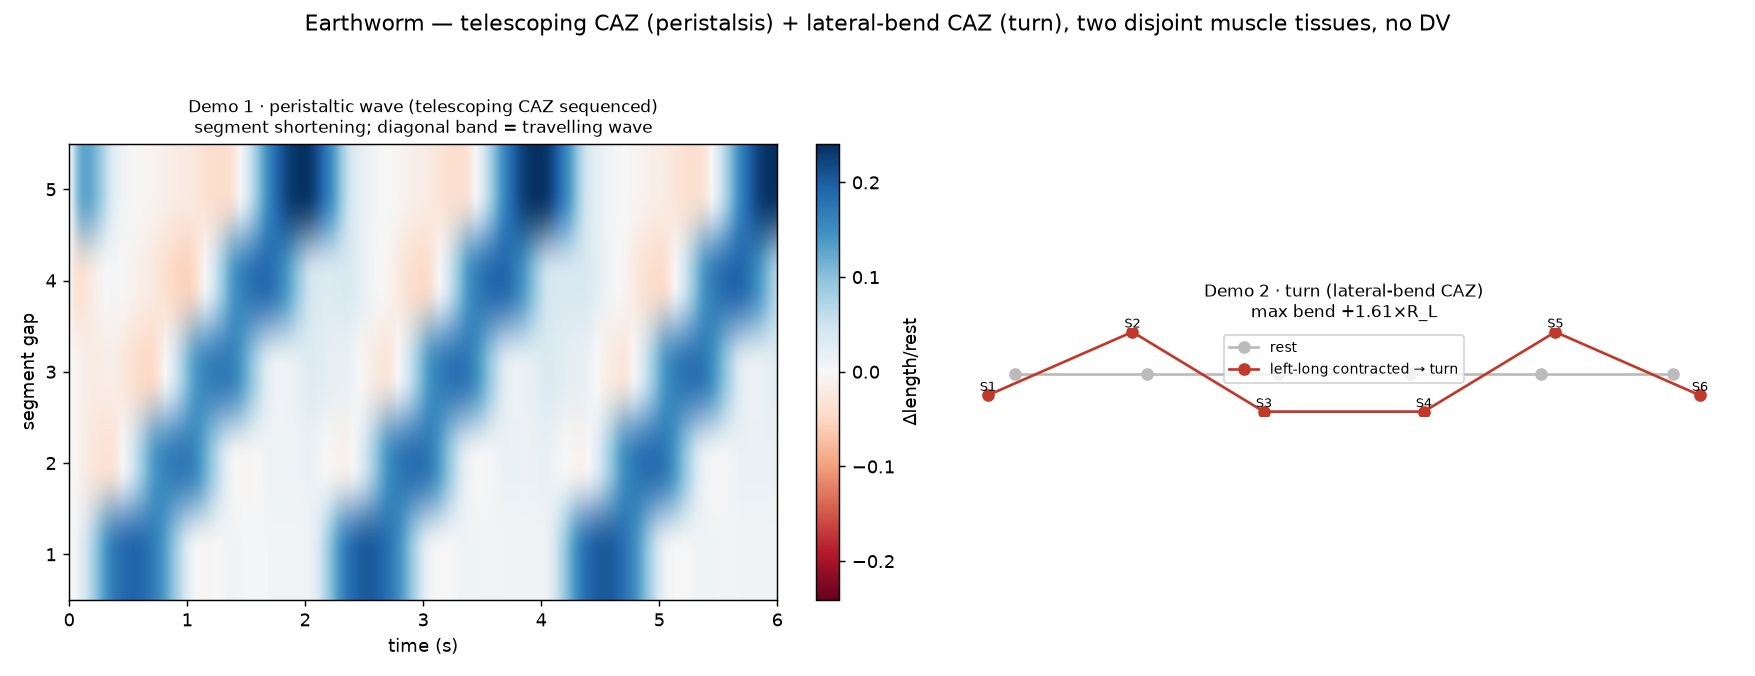
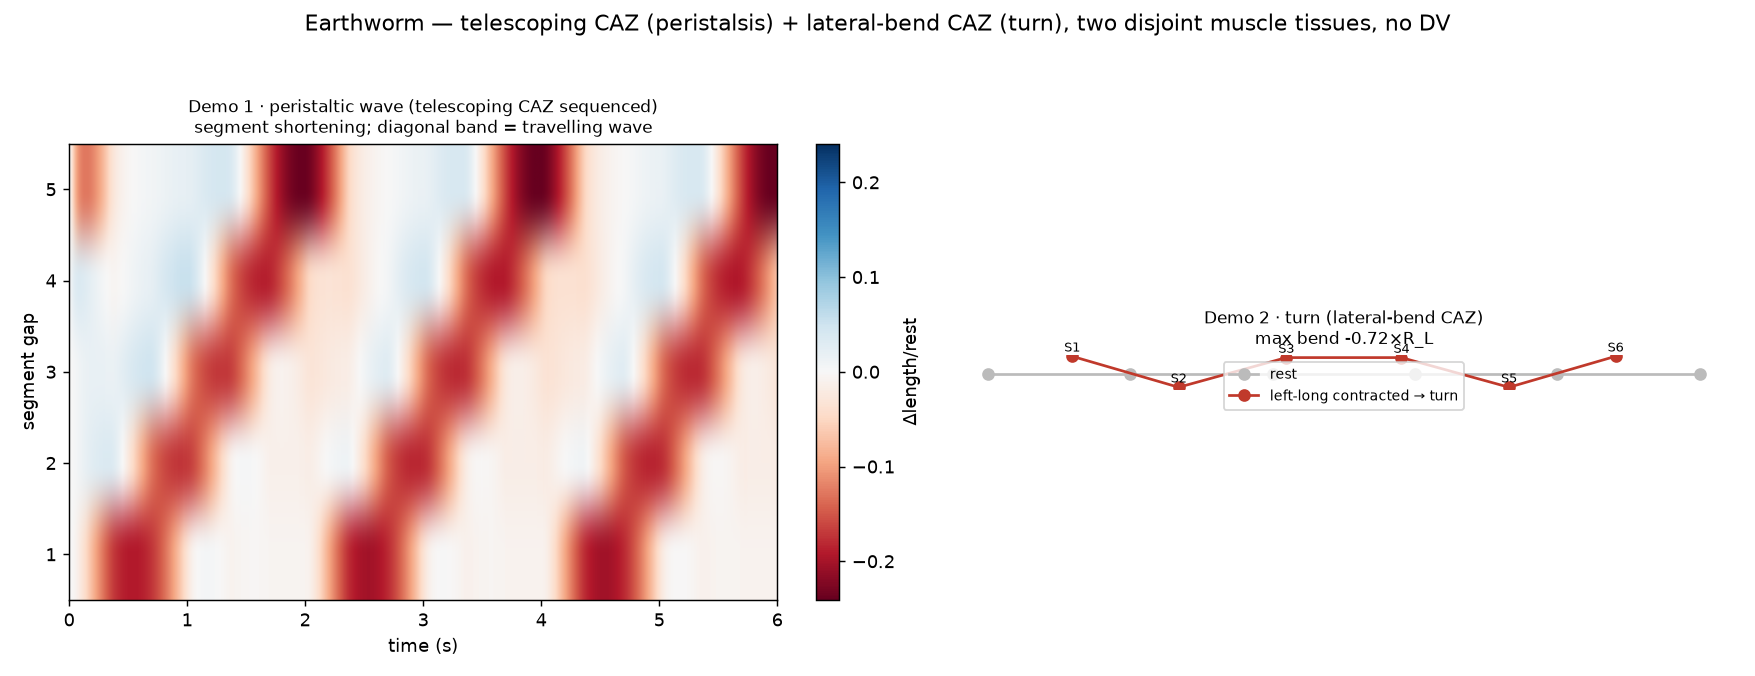
feat(fbody): A2 — one shared pull-only f primitive; port earthworm + nematode
A muscle can only pull. New smn_lab/fbody.build_body is the single body
builder every morphology instantiates: point-mass s + spring-tendon f per
edge, pull-only (negative gear + ctrlrange 0..cmax, so non-negative ctrl =
contraction amount; the series spring restores). Verified in fbody._selfcheck
(+ctrl contracts 0.300->0.175; relaxed rests at 0.300).

- earthworm.py, nematode.py now build via build_body (pull-only), retiring
  their inline bidirectional builders (which could PUSH). Earthworm results
  preserved (peristalsis 24%; turn now correctly contraction-driven);
  nematode DV bend now weaker (0.1xR) under honest pull-only — its gait needs
  Phase B (emergent coupling + anchoring), not script-tuning.
- experiments/pull_only_recovery_delta.py: evidence that pull-only babble
  recovers the self-model identically (chain/sheet Δ<=0.01) — so migrating
  the lattice/disk/hydra RECOVERY family is safe (A2b).

Changed region(s): [[0.0308, 0.2175, 0.4615, 0.9009], [0.5538, 0.4038, 0.9846, 0.6213]]

diff --git a/smn_lab/fbody.py b/smn_lab/fbody.py
@@ -1,0 +1,91 @@
+# SPDX-License-Identifier: GPL-3.0-or-later
+# Copyright (C) 2026 G. Nagarjuna and Durgaprasad Karnam
+"""The shared body builder — point-mass segments (``s``) joined by pull-only ``f``.
+
+One primitive for every morphology (A2 of the bench revision). A body is a set of **nodes**
+(``s`` — point masses, 3-DOF slide, overdamped) joined by **edges**, each edge one **``f``** — a
+*contractile unit* (Sensation Modulator): a spring-tendon with, if actuated, a linear actuator.
+
+**A muscle can only pull.** So an actuated ``f`` is **pull-only**: its series spring supplies the
+restoring force (the elastic recoil / the opposition), and the actuator only ever *contracts*.
+MuJoCo sign convention (verified in ``_selfcheck``): with ``gear=+1`` a positive ``ctrl``
+*lengthens* a tendon. We therefore realize pull-only with **negative gear + ``ctrlrange="0 cmax"``**,
+so a **non-negative ``ctrl`` is the contraction amount** (0 = relaxed, ``cmax`` = full pull). Same
+convention ``crawler.py`` uses for its opponent pair.
+
+A CAZ is *not* built here — a CAZ is a zone of coordinated action *over* ``f``s (the coordination
+layer). This module only builds the ``f`` scaffold and returns the handles to drive and read it.
+
+Run ``python -m smn_lab.fbody`` to self-check the pull-only sign convention.
+"""
+from __future__ import annotations
+import numpy as np
+import mujoco
+
+DT = 0.002
+
+
+def build_body(pos, edges, stiff, actuated=None, *, cmax=4.0, gear=1.0, pull_only=True,
+               seg_size=0.015, seg_mass=0.05, seg_damp=3.0, link_damp=0.5, name="body"):
+    """Build a MuJoCo body of point-mass ``s`` joined by spring-tendon ``f`` edges.
+
+    pos       : (N,3) node positions.
+    edges     : list of (a,b) index pairs — one ``f`` per edge.
+    stiff     : per-edge spring stiffness (scalar broadcast, or length-len(edges) array).
+    actuated  : per-edge bool (which ``f`` carry a linear actuator); default all True.
+    cmax,gear : ctrl bound and actuator gear magnitude.
+    pull_only : True  -> muscle can only CONTRACT (negative gear, ctrlrange 0..cmax; a
+                         non-negative ctrl is the contraction amount);
+                False -> bidirectional (legacy; ctrlrange -cmax..cmax, gear +).
+
+    Returns (model, data, act_of_edge) where act_of_edge maps edge index -> actuator index.
+    """
+    pos = np.asarray(pos, float)
+    n_e = len(edges)
+    stiff = np.broadcast_to(np.asarray(stiff, float), (n_e,))
+    actuated = np.ones(n_e, bool) if actuated is None else np.asarray(actuated, bool)
+    g = -abs(gear) if pull_only else abs(gear)          # negative gear: +ctrl -> contract
+    lo = 0.0 if pull_only else -cmax
+    bodies = "".join(
+        f'<body name="b{i}" pos="{x:.5f} {y:.5f} {z:.5f}">'
+        f'<joint name="jx{i}" type="slide" axis="1 0 0" damping="{seg_damp}"/>'
+        f'<joint name="jy{i}" type="slide" axis="0 1 0" damping="{seg_damp}"/>'
+        f'<joint name="jz{i}" type="slide" axis="0 0 1" damping="{seg_damp}"/>'
+        f'<geom type="sphere" size="{seg_size}" mass="{seg_mass}" friction="0 0 0"/>'
+        f'<site name="s{i}" size="0.006"/></body>' for i, (x, y, z) in enumerate(pos))
+    tend = "".join(
+        f'<spatial name="t{e}" stiffness="{stiff[e]:.4f}" damping="{link_damp}" '
+        f'springlength="{np.linalg.norm(pos[a]-pos[b]):.5f}"><site site="s{a}"/>'
+        f'<site site="s{b}"/></spatial>' for e, (a, b) in enumerate(edges))
+    acts = "".join(f'<motor name="m{e}" tendon="t{e}" gear="{g:.4f}" ctrlrange="{lo} {cmax}"/>'
+                   for e in range(n_e) if actuated[e])
+    xml = (f'<mujoco model="{name}"><option timestep="{DT}" gravity="0 0 0" '
+           f'integrator="implicitfast"><flag contact="disable"/></option>'
+           f'<worldbody>{bodies}</worldbody><tendon>{tend}</tendon>'
+           f'<actuator>{acts}</actuator></mujoco>')
+    m = mujoco.MjModel.from_xml_string(xml)
+    d = mujoco.MjData(m)
+    act_of_edge = {int(e): a for a, e in enumerate(np.where(actuated)[0])}
+    return m, d, act_of_edge
+
+
+def _selfcheck():
+    """Assert the pull-only convention: a non-negative ctrl CONTRACTS (shortens) the f."""
+    pos = [(0, 0, 0), (0.30, 0, 0)]
+    m, d, aoe = build_body(pos, [(0, 1)], stiff=12.0, cmax=4.0, pull_only=True)
+    d.qpos[:] = 0; mujoco.mj_forward(m, d)
+    for _ in range(1500):
+        d.ctrl[aoe[0]] = 3.0                       # non-negative = "contract"
+        mujoco.mj_step(m, d)
+    length = (0.30 + d.qpos[1]) - d.qpos[0]
+    assert length < 0.30, f"pull-only broken: +ctrl gave length {length:.4f} (rest 0.300)"
+    print(f"pull-only OK: +ctrl -> length {length:.4f} (contracted from 0.300)")
+    m, d, aoe = build_body(pos, [(0, 1)], stiff=12.0, pull_only=True)
+    d.qpos[:] = 0; mujoco.mj_forward(m, d)
+    for _ in range(500):
+        d.ctrl[aoe[0]] = 0.0; mujoco.mj_step(m, d)
+    print(f"relaxed rest: length {(0.30 + d.qpos[1]) - d.qpos[0]:.4f} (≈0.300)")
+
+
+if __name__ == "__main__":
+    _selfcheck()

diff --git a/experiments/pull_only_recovery_delta.py b/experiments/pull_only_recovery_delta.py
@@ -1,0 +1,74 @@
+# SPDX-License-Identifier: GPL-3.0-or-later
+# Copyright (C) 2026 G. Nagarjuna and Durgaprasad Karnam
+"""Does the pull-only ``f`` change the self-model? (A2 evidence.)
+
+A muscle can only pull, so the A2 primitive (``smn_lab.fbody.build_body``, pull-only) restricts each
+``f`` to contraction. This asks whether that restriction costs anything in the load-bearing result —
+topology-invariant **self-model recovery** — versus the legacy bidirectional actuator.
+
+Babble each ``f`` and recover the body graph with the framework read-out
+(``smn_lab.self_model.coupling`` + ``endpoint_recovery``), for bidirectional vs pull-only.
+
+Result (3 seeds): recovery is unchanged (Δ ≤ 0.01), so the pull-only migration is safe for the
+recovery family. Run:  ../.venv/bin/python pull_only_recovery_delta.py
+"""
+from __future__ import annotations
+import os, sys
+import numpy as np
+import mujoco
+sys.path.insert(0, os.path.dirname(os.path.dirname(os.path.abspath(__file__))))
+from smn_lab.fbody import build_body, DT
+from smn_lab.self_model import coupling
+from smn_lab.metrics import endpoint_recovery
+
+
+def chain(n):
+    return [(i * 0.3, 0, 0) for i in range(n)], [(i, i + 1) for i in range(n - 1)]
+
+
+def sheet(nc, nr, dx=0.3, dy=0.3):
+    pos = [(c * dx, r * dy, 0) for r in range(nr) for c in range(nc)]
+    idx = lambda c, r: r * nc + c
+    E = []
+    for r in range(nr):
+        for c in range(nc):
+            if c + 1 < nc: E.append((idx(c, r), idx(c + 1, r)))
+            if r + 1 < nr: E.append((idx(c, r), idx(c, r + 1)))
+    return pos, E
+
+
+def recover(pos, edges, pull_only, seed=0, T=16.0, tc=0.15, sig=4.0):
+    m, d, aoe = build_body(pos, edges, stiff=12.0, pull_only=pull_only, cmax=4.0)
+    rng = np.random.default_rng(seed)
+    n, nm, nn = int(T / DT), len(edges), len(pos)
+    DRV = np.zeros((n, nm)); V = [np.zeros((n, nn)) for _ in range(3)]
+    u = np.zeros(m.nu); d.qpos[:] = 0; d.qvel[:] = 0; mujoco.mj_forward(m, d)
+    warm = int(2.0 / DT); ou = np.zeros(nm)
+    for i in range(warm + n):
+        ou += (-ou / tc) * DT + sig * np.sqrt(DT) * rng.standard_normal(nm)
+        drive = np.clip(ou, 0, None) if pull_only else ou     # pull-only: contraction amount >= 0
+        for e, a in aoe.items(): u[a] = drive[e]
+        d.ctrl[:] = u; mujoco.mj_step(m, d)
+        if i >= warm:
+            j = i - warm; DRV[j] = drive; vv = d.qvel.reshape(-1, 3)
+            for k in range(3): V[k][j] = vv[:, k]
+    for A in V: A -= A.mean(0)
+    C = sum(np.abs(coupling(DRV, A)) for A in V)
+    return endpoint_recovery(C, edges)
+
+
+def main():
+    print("\nSelf-model recovery — bidirectional vs pull-only f (3 seeds each)")
+    print("=" * 66)
+    print(f"{'body':<12}{'bidirectional':>15}{'pull-only':>12}{'Δ':>8}")
+    for name, (pos, edges) in [("chain-8", chain(8)), ("sheet-2x5", sheet(5, 2)),
+                                ("sheet-3x4", sheet(4, 3))]:
+        bi = np.mean([recover(pos, edges, False, s) for s in range(3)])
+        po = np.mean([recover(pos, edges, True, s) for s in range(3)])
+        print(f"{name:<12}{bi:>15.2f}{po:>12.2f}{po - bi:>+8.2f}")
+    print("=" * 66)
+    print("Recovery is unchanged under pull-only → the migration is safe for the recovery family.")
+
+
+if __name__ == "__main__":
+    main()

diff --git a/experiments/nematode.py b/experiments/nematode.py
@@ -26,8 +26,10 @@ Demo: an anti-phase dorsal/ventral contraction wave → a travelling DV bend (un
 Self-contained. Run:  ../.venv/bin/python nematode.py
 """
 from __future__ import annotations
-import os
+import os, sys
 import numpy as np
+sys.path.insert(0, os.path.dirname(os.path.dirname(os.path.abspath(__file__))))
+from smn_lab.fbody import build_body   # shared pull-only f primitive (A2)
 import matplotlib
 matplotlib.use("Agg")
 import matplotlib.pyplot as plt
@@ -107,25 +109,10 @@ def spec():
 
 
 def build(S):
-    pos, edges, stiff = S["pos"], S["edges"], S["stiff"]
-    bodies = "".join(
-        f'<body name="b{i}" pos="{x:.5f} {y:.5f} {z:.5f}">'
-        f'<joint name="jx{i}" type="slide" axis="1 0 0" damping="3"/>'
-        f'<joint name="jy{i}" type="slide" axis="0 1 0" damping="3"/>'
-        f'<joint name="jz{i}" type="slide" axis="0 0 1" damping="3"/>'
-        f'<geom type="sphere" size="0.012" mass="0.04" friction="0 0 0"/>'
-        f'<site name="s{i}" size="0.005"/></body>' for i, (x, y, z) in enumerate(pos))
-    tend = "".join(
-        f'<spatial name="t{e}" stiffness="{stiff[e]:.3f}" damping="0.5" '
-        f'springlength="{np.linalg.norm(pos[a]-pos[b]):.5f}"><site site="s{a}"/>'
-        f'<site site="s{b}"/></spatial>' for e, (a, b) in enumerate(edges))
-    acts = "".join(f'<motor name="m{e}" tendon="t{e}" gear="3" ctrlrange="-4 4"/>'
-                   for e in range(len(edges)) if S["is_musc"][e])
-    xml = (f'<mujoco><option timestep="{DT}" gravity="0 0 0" integrator="implicitfast">'
-           f'<flag contact="disable"/></option><worldbody>{bodies}</worldbody>'
-           f'<tendon>{tend}</tendon><actuator>{acts}</actuator></mujoco>')
-    m = mujoco.MjModel.from_xml_string(xml); d = mujoco.MjData(m)
-    return m, d, {int(e): a for a, e in enumerate(np.where(S["is_musc"])[0])}
+    # One shared, PULL-ONLY f primitive (a muscle only contracts; non-negative ctrl = contraction
+    # amount; the elastic cuticle restores). Was gear=3/ctrlrange=-4 4 (bidirectional = could push).
+    return build_body(S["pos"], S["edges"], S["stiff"], S["is_musc"], cmax=4.0, gear=3.0,
+                      pull_only=True, seg_size=0.012, seg_mass=0.04, seg_damp=3.0, name="nematode")
 
 
 def run(S, ctrl, T):

diff --git a/experiments/earthworm.py b/experiments/earthworm.py
@@ -23,8 +23,10 @@ Two demos: (1) a peristaltic wave from the telescoping pairs; (2) a turn from th
 Self-contained. Run:  ../.venv/bin/python earthworm.py
 """
 from __future__ import annotations
-import os
+import os, sys
 import numpy as np
+sys.path.insert(0, os.path.dirname(os.path.dirname(os.path.abspath(__file__))))
+from smn_lab.fbody import build_body   # shared pull-only f primitive (A2)
 import matplotlib
 matplotlib.use("Agg")
 import matplotlib.pyplot as plt
@@ -89,25 +91,10 @@ def spec():
 
 
 def build(S):
-    pos, edges, stiff = S["pos"], S["edges"], S["stiff"]
-    bodies = "".join(
-        f'<body name="b{i}" pos="{x:.5f} {y:.5f} {z:.5f}">'
-        f'<joint name="jx{i}" type="slide" axis="1 0 0" damping="3"/>'
-        f'<joint name="jy{i}" type="slide" axis="0 1 0" damping="3"/>'
-        f'<joint name="jz{i}" type="slide" axis="0 0 1" damping="3"/>'
-        f'<geom type="sphere" size="0.015" mass="0.05" friction="0 0 0"/>'
-        f'<site name="s{i}" size="0.006"/></body>' for i, (x, y, z) in enumerate(pos))
-    tend = "".join(
-        f'<spatial name="t{e}" stiffness="{stiff[e]:.3f}" damping="0.5" '
-        f'springlength="{np.linalg.norm(pos[a]-pos[b]):.5f}"><site site="s{a}"/>'
-        f'<site site="s{b}"/></spatial>' for e, (a, b) in enumerate(edges))
-    acts = "".join(f'<motor name="m{e}" tendon="t{e}" gear="1" ctrlrange="-4 4"/>'
-                   for e in range(len(edges)) if S["is_musc"][e])
-    xml = (f'<mujoco><option timestep="{DT}" gravity="0 0 0" integrator="implicitfast">'
-           f'<flag contact="disable"/></option><worldbody>{bodies}</worldbody>'
-           f'<tendon>{tend}</tendon><actuator>{acts}</actuator></mujoco>')
-    m = mujoco.MjModel.from_xml_string(xml); d = mujoco.MjData(m)
-    return m, d, {int(e): a for a, e in enumerate(np.where(S["is_musc"])[0])}
+    # One shared, PULL-ONLY f primitive (a muscle only contracts; non-negative ctrl = contraction
+    # amount; the series spring restores). Was gear=1/ctrlrange=-4 4 (bidirectional = could push).
+    return build_body(S["pos"], S["edges"], S["stiff"], S["is_musc"],
+                      cmax=4.0, gear=1.0, pull_only=True, seg_damp=3.0, name="earthworm")
 
 
 def run(S, ctrl, T):
